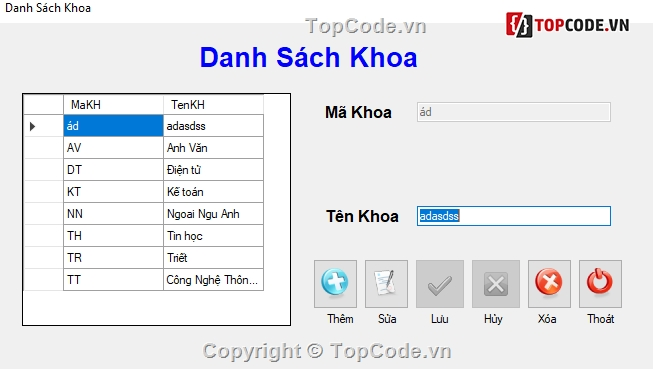
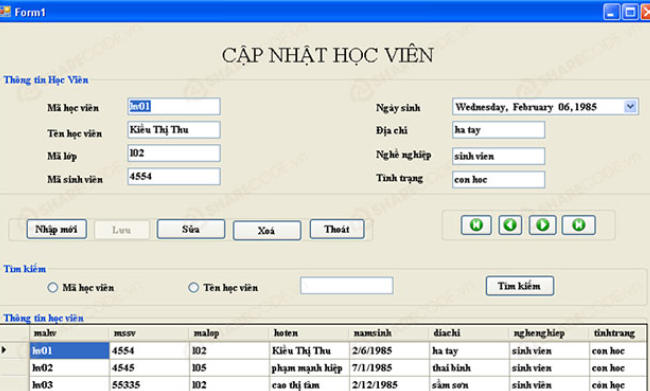
upload

diff --git a/backend-laravel/app/Http/Ai/ContentModeration.php b/backend-laravel/app/Http/Ai/ContentModeration.php
@@ -125,26 +125,7 @@ class ContentModeration
                 return $this->blocked('Invalid AI response format');
             }
 
-            $approved = (bool) ($result['approved'] ?? false);
-            $violations = $this->formatViolations($result['violations'] ?? []);
-            $reason = trim($result['reason'] ?? '');
-
-            //  reduce false positive (important)
-            if (!$approved && count($violations) === 0) {
-                return [
-                    'approved' => true,
-                    'reason' => 'Auto-approved (no strong violations)',
-                    'violations' => [],
-                    'raw' => $result,
-                ];
-            }
-
-            return [
-                'approved' => $approved,
-                'reason' => $reason ?: ($approved ? 'OK' : 'Rejected by AI'),
-                'violations' => $violations,
-                'raw' => $result,
-            ];
+            return $this->normalizeModerationResult($result);
         } catch (\Throwable $e) {
             Log::error('AI moderation exception', [
                 'message' => $e->getMessage(),
@@ -236,12 +217,7 @@ class ContentModeration
                 return $this->blocked('Invalid AI response format');
             }
 
-            return [
-                'approved' => (bool) ($result['approved'] ?? false),
-                'reason' => trim($result['reason'] ?? ''),
-                'violations' => $this->formatViolations($result['violations'] ?? []),
-                'raw' => $result,
-            ];
+            return $this->normalizeModerationResult($result);
         } catch (\Throwable $e) {
             return $this->blocked($e->getMessage());
         }
@@ -292,6 +268,67 @@ class ContentModeration
 
             return trim((string) $violation);
         }, $violations)));
+    }
+
+    private function normalizeModerationResult(array $result): array
+    {
+        $approved = (bool) ($result['approved'] ?? false);
+        $violations = $this->formatViolations($result['violations'] ?? []);
+        $reason = trim($result['reason'] ?? '');
+
+        if (!$approved && $this->isSafeEducationalSoftwareScreenshot($result, $violations)) {
+            return [
+                'approved' => true,
+                'reason' => 'Ảnh giao diện phần mềm giáo dục có dữ liệu minh họa hợp lệ',
+                'violations' => [],
+                'raw' => $result,
+            ];
+        }
+
+        // Giảm false-positive khi AI từ chối nhưng không nêu được vi phạm cụ thể.
+        if (!$approved && count($violations) === 0) {
+            return [
+                'approved' => true,
+                'reason' => 'Auto-approved (no strong violations)',
+                'violations' => [],
+                'raw' => $result,
+            ];
+        }
+
+        return [
+            'approved' => $approved,
+            'reason' => $reason ?: ($approved ? 'OK' : 'Rejected by AI'),
+            'violations' => $violations,
+            'raw' => $result,
+        ];
+    }
+
+    private function isSafeEducationalSoftwareScreenshot(array $result, array $violations): bool
+    {
+        $checks = $result['checks'] ?? [];
+
+        if (($checks['software_ui_or_prototype'] ?? false) !== true
+            || ($checks['image_related'] ?? false) !== true
+            || ($checks['major_match'] ?? false) !== true) {
+            return false;
+        }
+
+        foreach (['adult_or_sensitive', 'violence_or_danger', 'spam_or_meme', 'watermark_or_stolen_signal'] as $check) {
+            if (($checks[$check] ?? false) === true) {
+                return false;
+            }
+        }
+
+        $allowedPrivacyTerms = [
+            'sinh viên', 'học viên', 'thí sinh', 'mssv', 'mã sinh viên',
+            'mã học viên', 'điểm số', 'bảng điểm', 'ngày sinh', 'địa chỉ',
+            'họ và tên', 'thông tin cá nhân', 'thông tin nhạy cảm',
+        ];
+
+        return count($violations) > 0 && collect($violations)->every(function ($violation) use ($allowedPrivacyTerms) {
+            $text = Str::lower($violation);
+            return collect($allowedPrivacyTerms)->contains(fn ($term) => str_contains($text, $term));
+        });
     }
 
     private function resolveImageUrl(Product $product, array $frontendContext): ?string
@@ -427,6 +464,10 @@ class ContentModeration
         - Nếu vi phạm nằm trong hình ảnh, mỗi phần tử violations phải bắt đầu bằng "Ảnh:" và ghi rõ nội dung nhìn thấy trong ảnh
         - Nếu trong ảnh có chữ, logo, watermark, thông tin nhạy cảm hoặc nội dung gây vi phạm, hãy ghi lại ngắn gọn chính thông tin/chữ đó trong violations
         - Không trả violations chung chung như "image_related" hoặc "adult_or_sensitive"; phải ghi rõ ví dụ: "Ảnh: có chữ ...", "Ảnh: có watermark ...", "Ảnh: nội dung không liên quan ..."
+        - Ảnh chụp giao diện phần mềm, bài tập, prototype quản lý học viên/sinh viên/thí sinh hoặc quản lý điểm là nội dung giáo dục hợp lệ.
+        - Tên, MSSV, mã học viên, ngày sinh, địa chỉ và điểm số xuất hiện bên trong giao diện phần mềm demo phải được xem là dữ liệu minh họa; KHÔNG từ chối chỉ vì các trường hoặc dữ liệu này.
+        - Chỉ xem là vi phạm riêng tư khi đó rõ ràng là ảnh tài liệu/hồ sơ/bảng điểm thật (không phải UI phần mềm demo) hoặc lộ định danh rủi ro cao như CCCD/hộ chiếu, số điện thoại, email cá nhân hay tài khoản đăng nhập.
+        - Đặt checks.software_ui_or_prototype=true khi ảnh là screenshot giao diện ứng dụng, website, desktop app, mockup hoặc prototype.
 
         Định dạng trả về:
 
@@ -443,7 +484,8 @@ class ContentModeration
                 "violence_or_danger": false,
                 "spam_or_meme": false,
                 "major_match": true,
-                "watermark_or_stolen_signal": false
+                "watermark_or_stolen_signal": false,
+                "software_ui_or_prototype": false
             }
         }
 

diff --git a/backend-laravel/app/Services/UploadService.php b/backend-laravel/app/Services/UploadService.php
@@ -57,7 +57,8 @@ class UploadService extends BaseRepository
 
                     return [
                         'error' => true,
-                        'message' => 'Ảnh vi phạm nội dung',
+                        'message' => 'Ảnh thứ ' . ($index + 1) . ' không đạt kiểm duyệt: ' . ($result['reason'] ?? 'Nội dung không phù hợp'),
+                        'image_index' => $index,
                         'detail' => $result
                     ];
                 }
